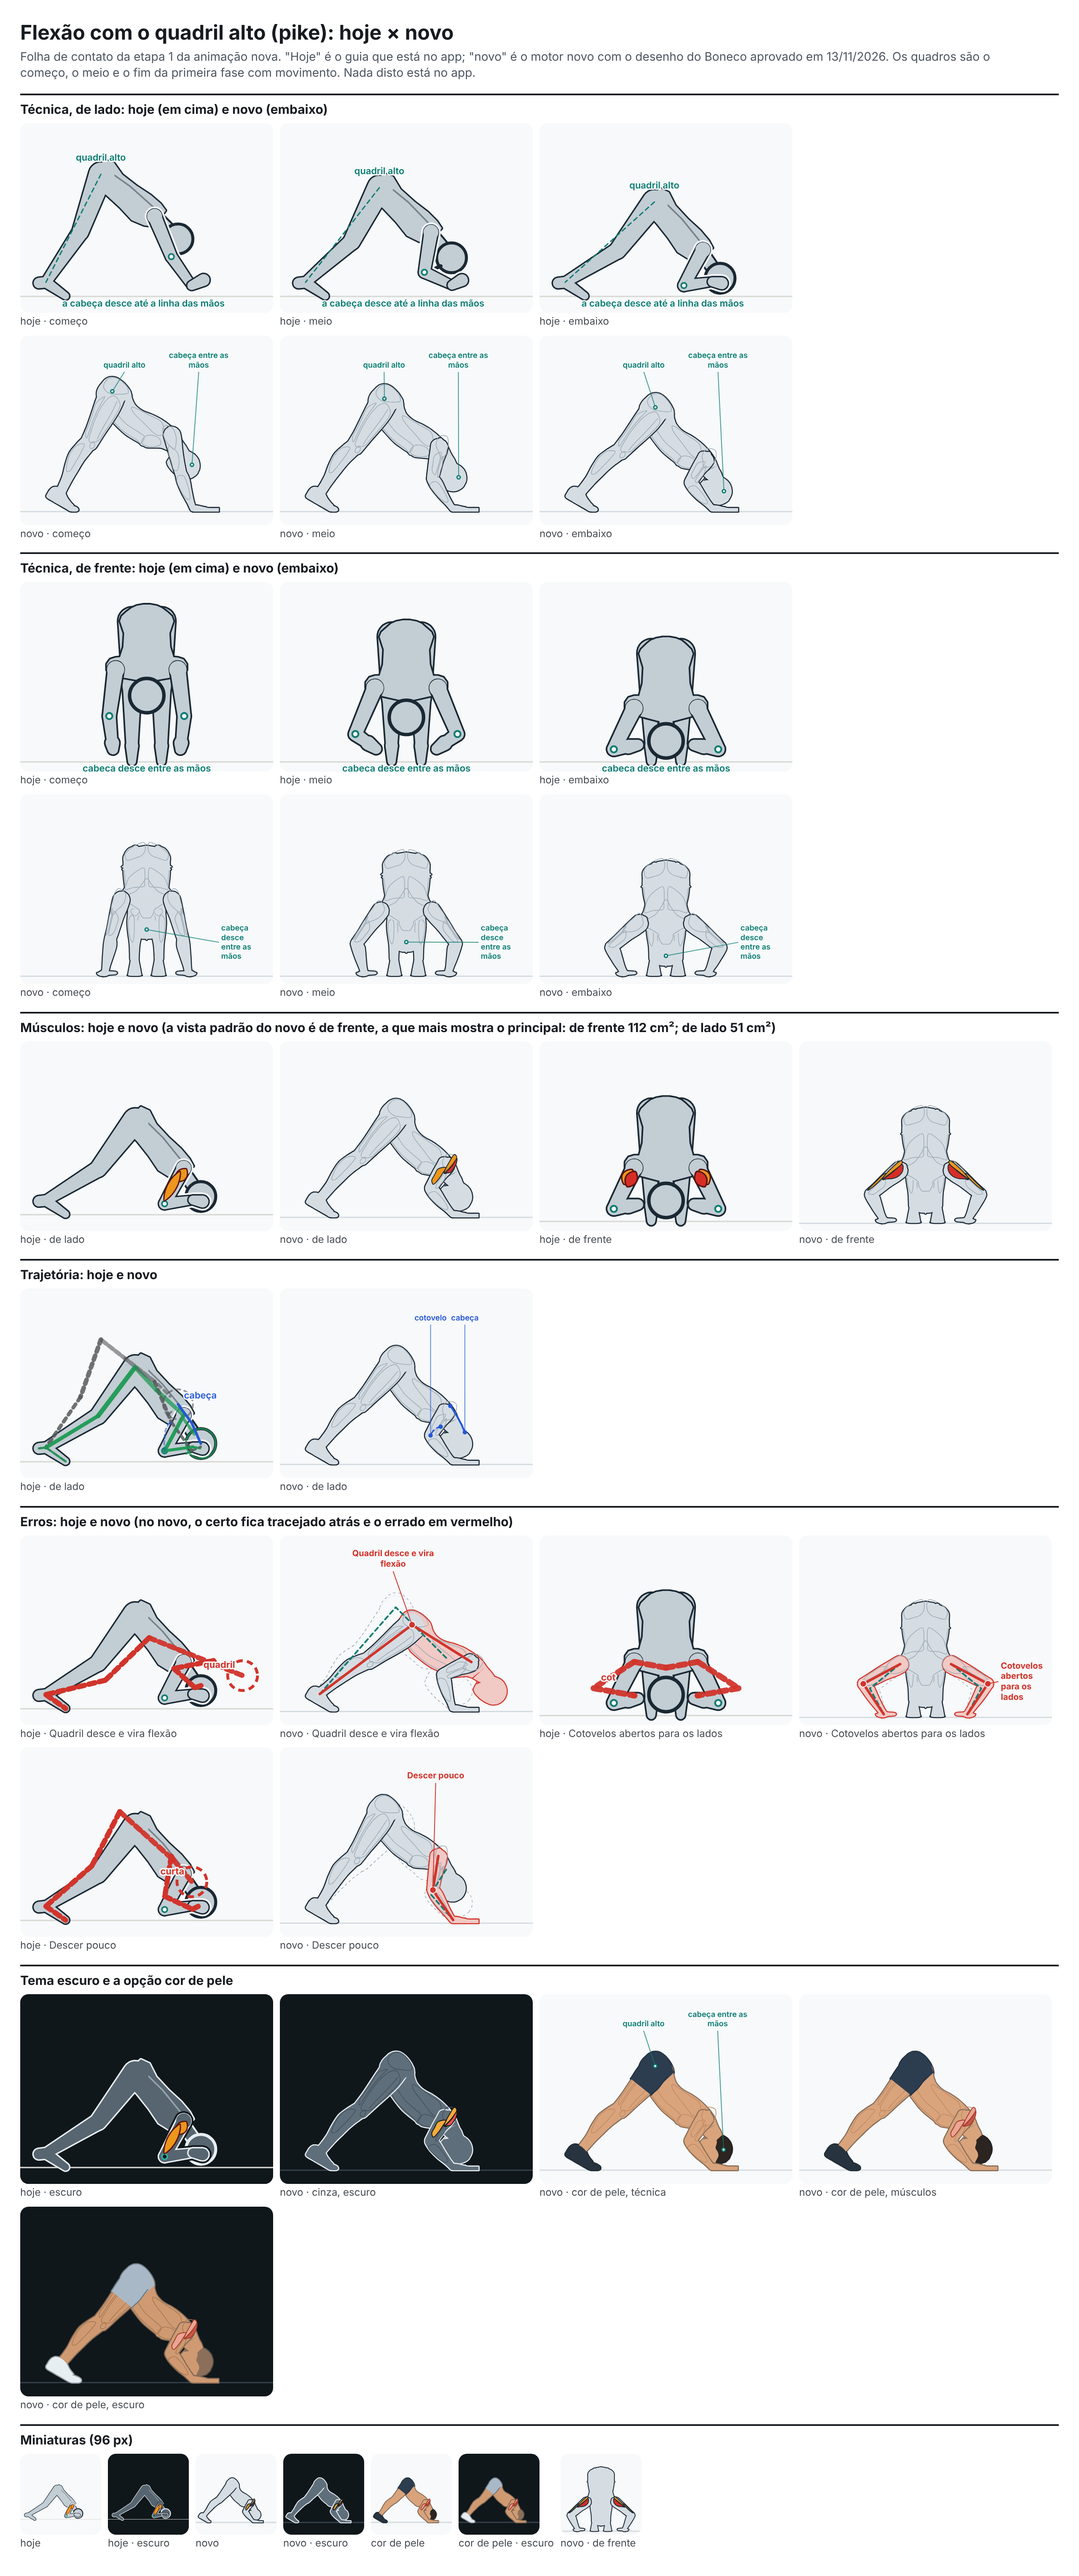
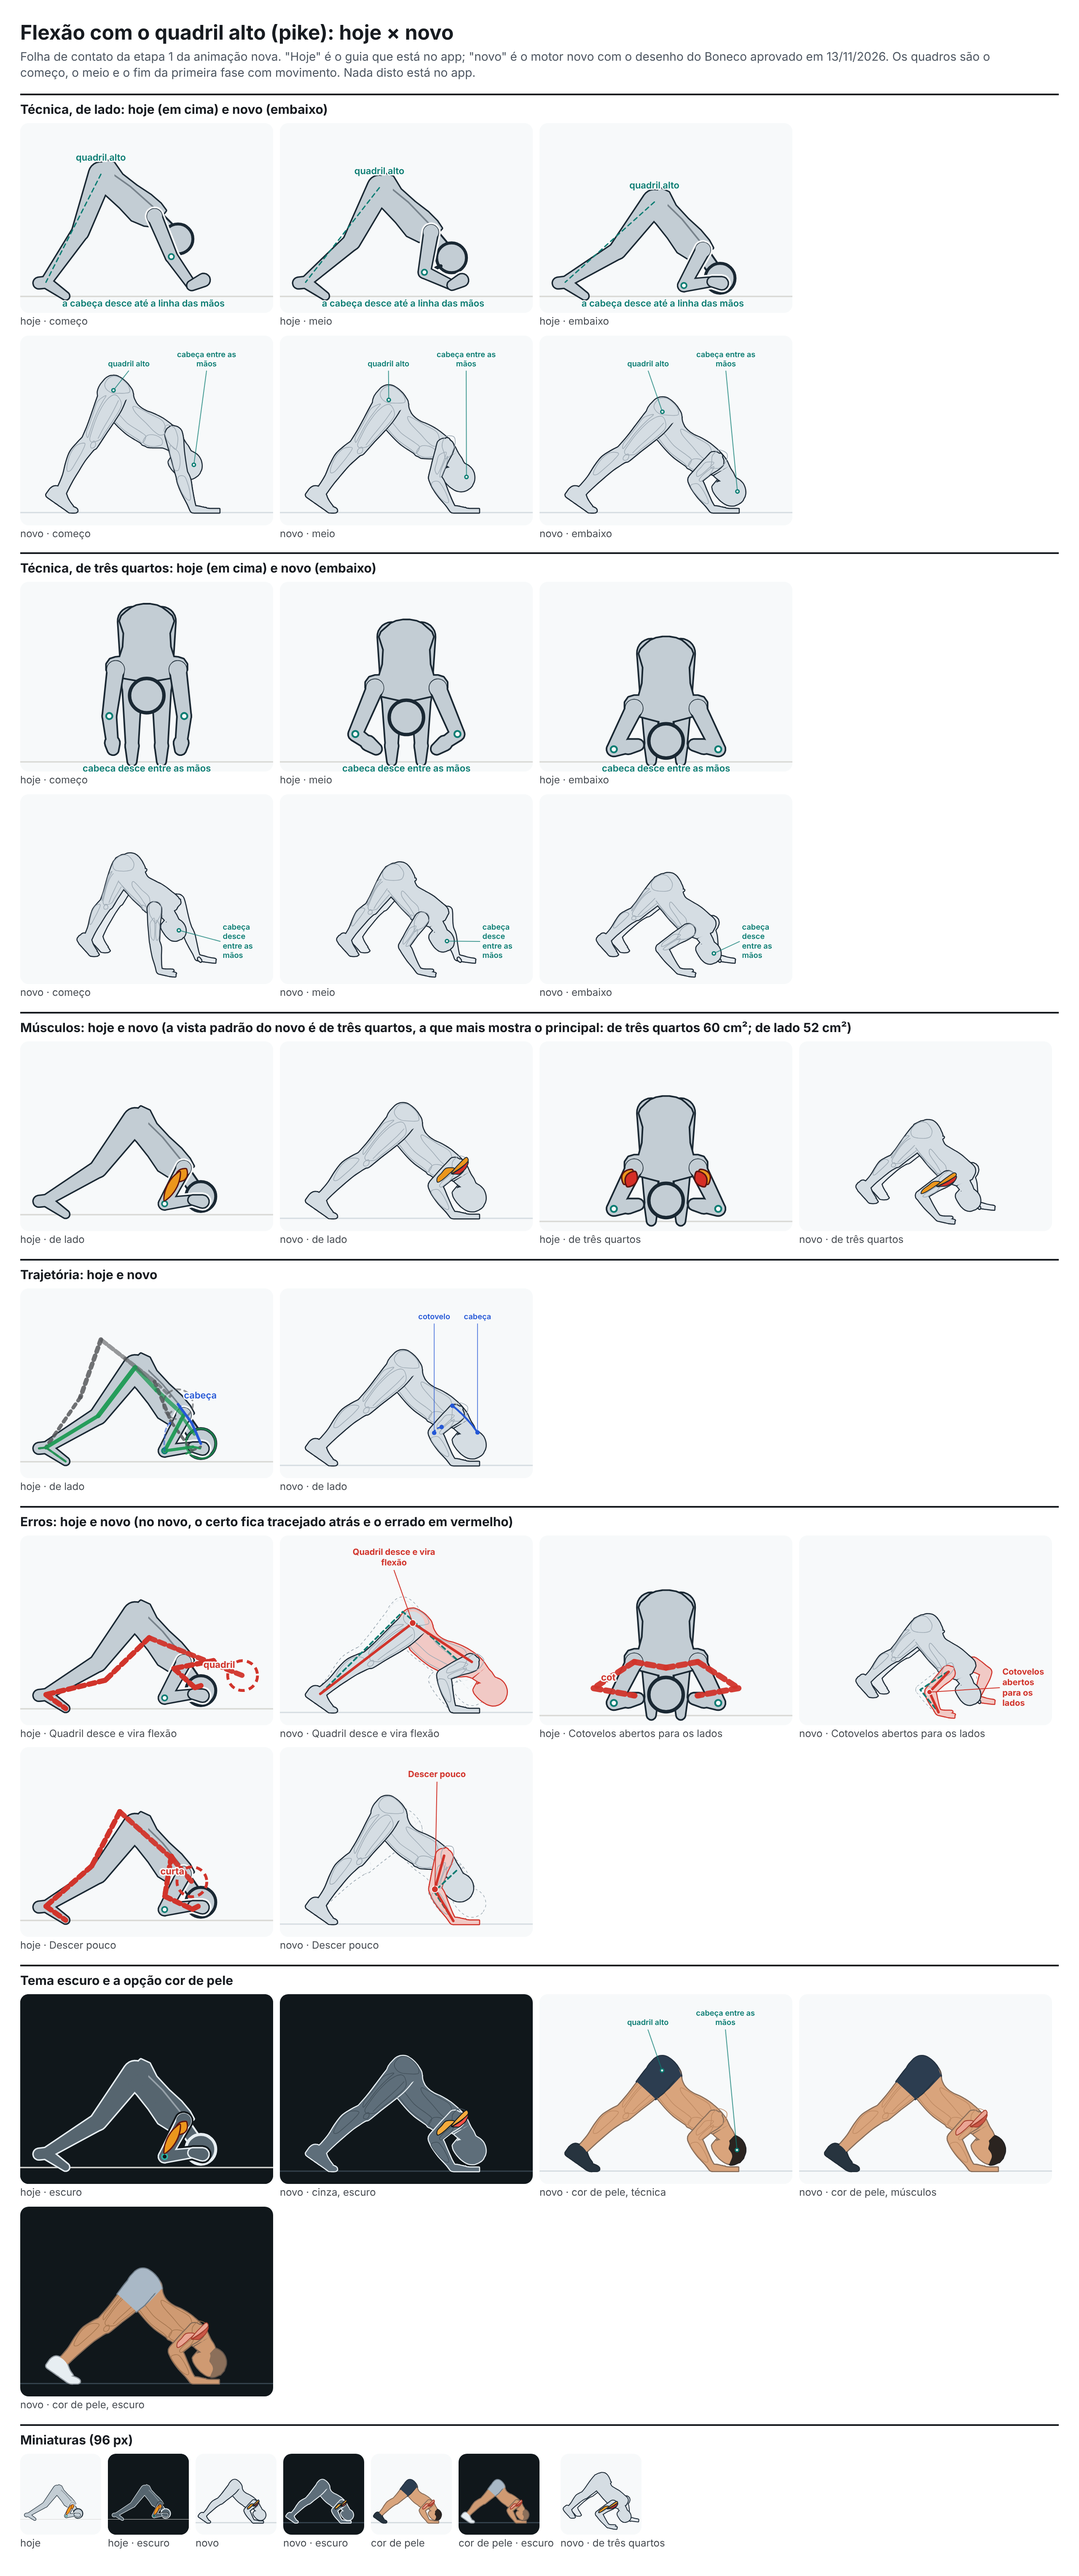
Correção do pike: vista de três quartos, cabeça à frente das palmas e calcanhar mais alto
Claude-Session: https://claude.ai/code/session_01YRzts7dTzBdkrmTDEnq8bW

diff --git a/src/engine/novo/regras/apoio-no-chao.ts b/src/engine/novo/regras/apoio-no-chao.ts
@@ -38,14 +38,16 @@ export const apoioNoChao: Record<string, Regra> = {
     const quad = faixa(q.map((x) => angulosDoLado(x.esq, 'R').quadril));
     return { medido: `o quadril fica no mínimo ${f1(acima)} cm acima dos ombros; os ombros ficam no mínimo ${f1(Math.abs(frente))} cm ${frente <= 0 ? 'atrás' : 'à frente'} do centro das palmas; a flexão do quadril vai de ${f1(quad[1])}° a ${f1(quad[0])}°`, ok: acima > 0 && frente <= 0 };
   },
-  'cabeca-desce-entre-as-maos': (q) => {
+  'cabeca-desce-entre-as-maos': (q, corpo) => {
+    // embaixo: a cabeça perto do chão, entre as mãos e na linha delas (entre o punho e a ponta dos dedos)
     const e = q[q.length - 1]!.esq;
     const h = baixoDaCabeca(e);
-    const zMaos = (palma(e, 'R')[2] + palma(e, 'L')[2]) / 2;
+    const zPunho = (e.lado.R.punho[2] + e.lado.L.punho[2]) / 2,
+      zDedos = zPunho + corpo.m('mao.comp');
     const entre = Math.abs(h[0]) < Math.abs(e.lado.R.punho[0]);
     // nenhum quadro antes: a cabeça não passa para baixo do chão no caminho
     const min = Math.min(...q.map((x) => baixoDaCabeca(x.esq)[1]));
-    return { medido: `embaixo, o ponto mais baixo da cabeça fica a ${f1(h[1])} cm do chão e ${f1(Math.abs(h[2] - zMaos))} cm ${h[2] >= zMaos ? 'à frente' : 'atrás'} da linha do centro das palmas, ${entre ? 'entre as mãos' : 'FORA do espaço entre as mãos'}; no caminho, nunca abaixo de ${f1(min)} cm`, ok: h[1] >= 1 && h[1] <= 9 && Math.abs(h[2] - zMaos) <= 3 && entre && min >= 1 };
+    return { medido: `embaixo, o ponto mais baixo da cabeça fica a ${f1(h[1])} cm do chão, ${f1(h[2] - zPunho)} cm à frente da linha dos punhos (a ponta dos dedos fica a ${f1(zDedos - zPunho)}), ${entre ? 'entre as mãos' : 'FORA do espaço entre as mãos'}; no caminho, nunca abaixo de ${f1(min)} cm`, ok: h[1] >= 3 && h[1] <= 9 && h[2] >= zPunho && h[2] <= zDedos && entre && min >= 3 };
   },
   'pernas-estendidas': (q) => {
     const j = faixa(q.map((x) => Math.max(angulosDoLado(x.esq, 'R').joelho, angulosDoLado(x.esq, 'L').joelho)));

diff --git a/src/engine/novo/exercicios/pike.ts b/src/engine/novo/exercicios/pike.ts
@@ -22,7 +22,7 @@ type Angs = [number, number];
 const CACHE = new WeakMap<Corpo, { cima: Angs; baixo: Angs; quadril: Angs }>();
 
 /** O corpo com as pernas `beta` graus acima do chão e o tronco `phi` graus abaixo da horizontal. */
-function pose(corpo: Corpo, beta: number, phi: number, cot = f('cotovelos.doTronco')): Esq {
+function pose(corpo: Corpo, beta: number, phi: number, cot = f('cotovelos.doTronco'), zMao = f('maos.aFrenteDosPes')): Esq {
   const { pernas, tornozelo } = pesNaPonta(corpo, f('pes.meiaDistancia'), f('calcanhar.sobe'), [0, -0.6, 1]);
   const d = quadrilAoTornozelo(corpo, f('joelho'));
   const pelve: V3 = [0, tornozelo[1] + d * Math.sin(beta * rad), tornozelo[2] + d * Math.cos(beta * rad)];
@@ -30,7 +30,7 @@ function pose(corpo: Corpo, beta: number, phi: number, cot = f('cotovelos.doTron
   const x = corpo.m('ombro.meiaDistancia') + f('maos.alemDoOmbro'),
     a = cot * rad;
   // os cotovelos vão para trás (na direção dos pés) e um pouco para fora: `cot` graus do tronco
-  const braco = (k: Lado) => maoEspalmada(corpo, k, x, 0, f('maos.aFrenteDosPes'), [sinal(k) * Math.sin(a), 0.25, -Math.cos(a)]);
+  const braco = (k: Lado) => maoEspalmada(corpo, k, x, 0, zMao, [sinal(k) * Math.sin(a), 0.25, -Math.cos(a)]);
   return resolverMembros(t, { R: braco('R'), L: braco('L') }, pernas);
 }
 
@@ -71,7 +71,7 @@ function quadro(corpo: Corpo, u: number, erro?: string): Quadro {
 
 export const pike: Exercicio = {
   ficha: F,
-  vistas: ['lateral', 'frontal'],
+  vistas: ['lateral', 'quina'],
   quadro,
   // a biblioteca: frente do ombro principal; lateral do ombro e tríceps secundários (revisão de anatomia, achado 4)
   papeis: { deltAnt: 'p', deltLat: 's', triceps: 's' },
